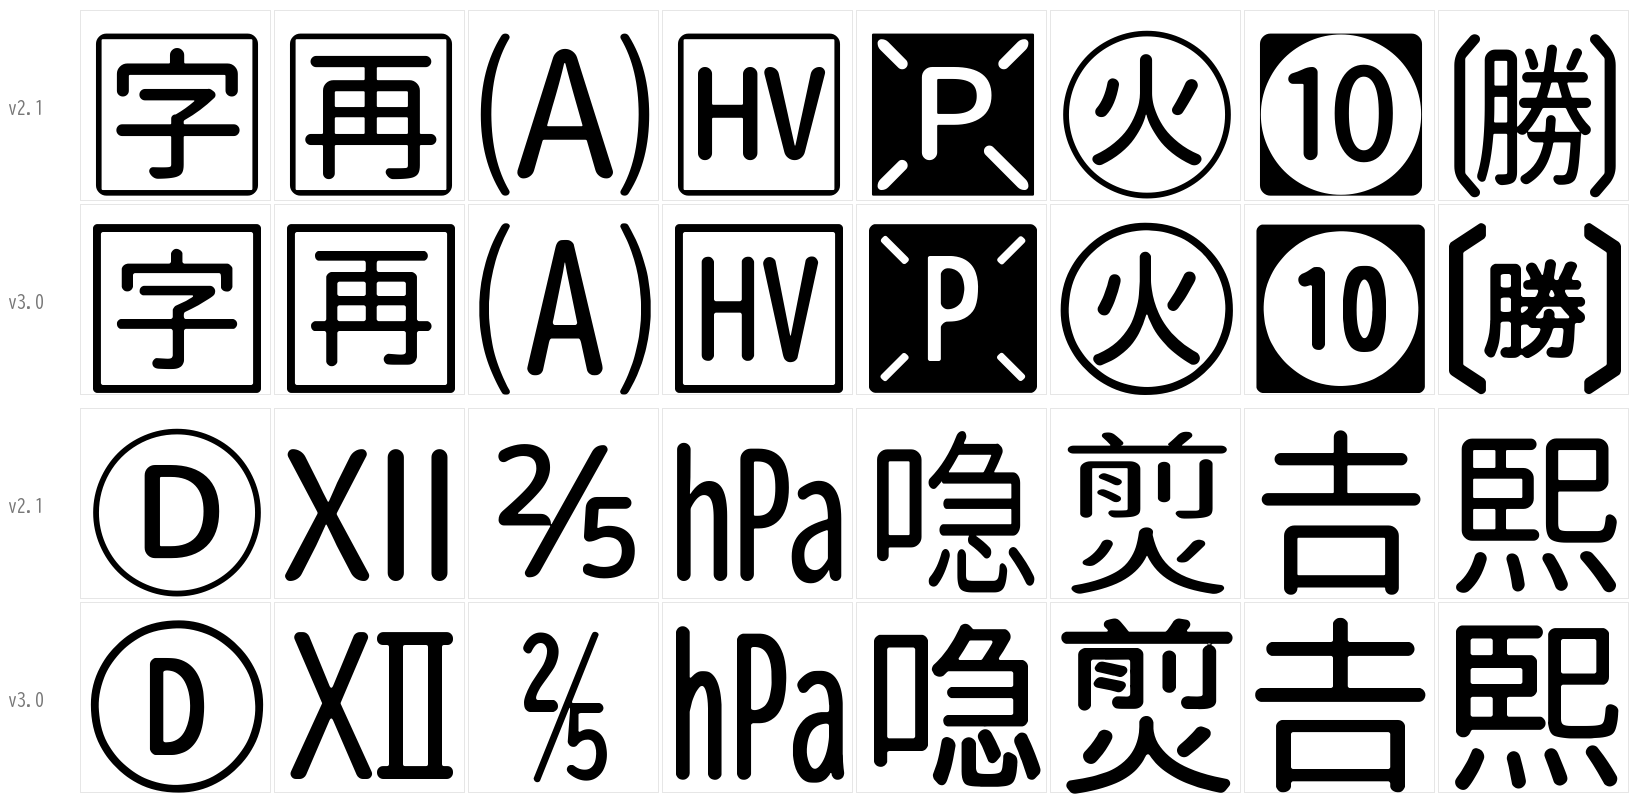
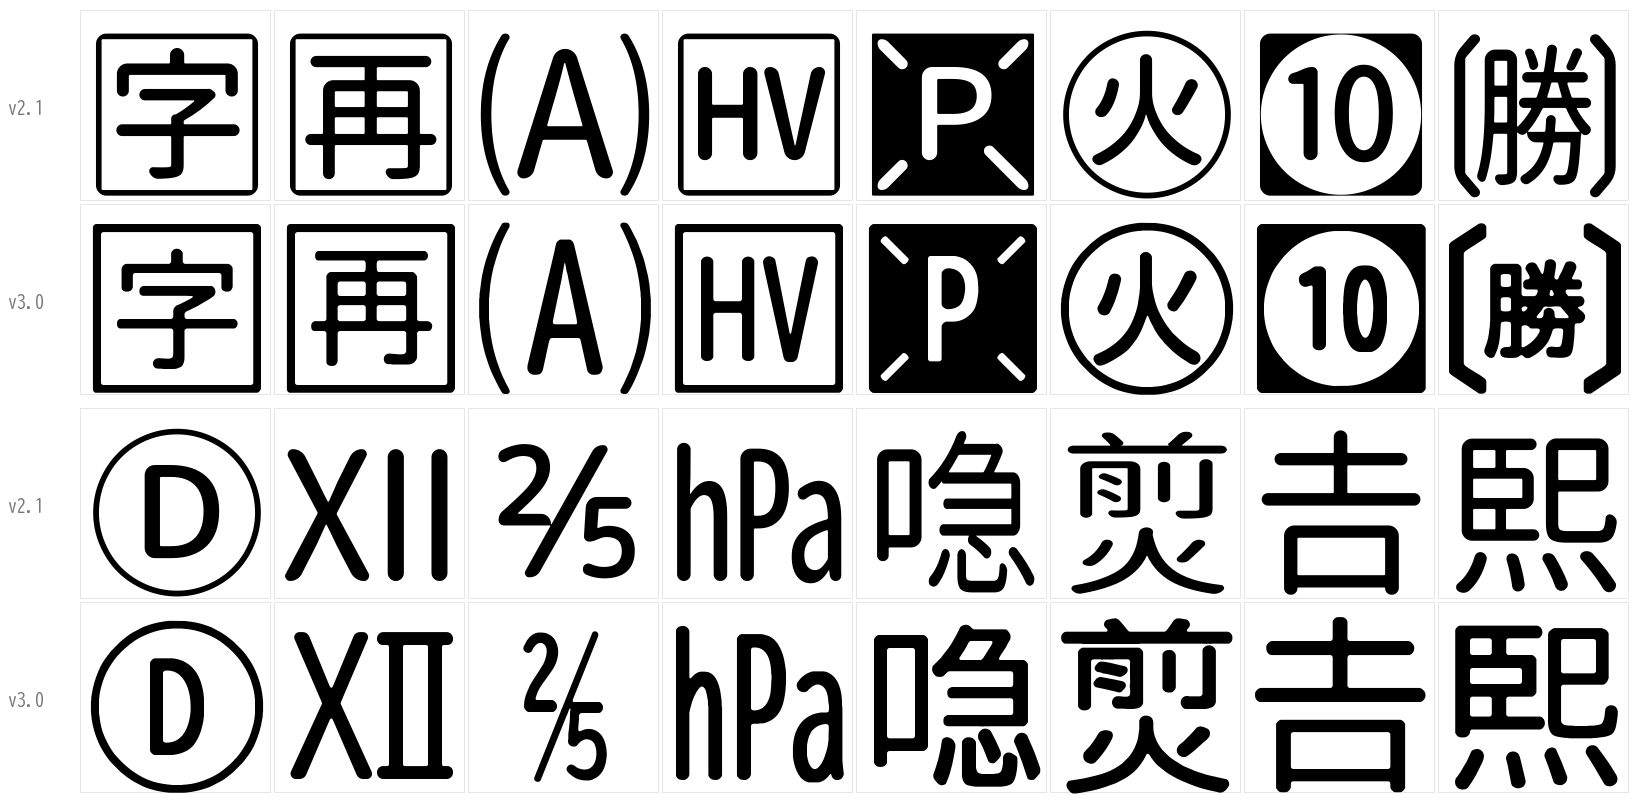
描いた字・組んだ字の格子を 1 マス 2 単位にする (見た目は同じで 4 倍速い)。見本を作り直す
Claude-Session: https://claude.ai/code/session_01TG5bWNd7UBYqDbKKDsecbS

Changed region(s): [[0.8386, 0.4032, 0.8697, 0.4342], [0.8386, 0.3412, 0.8697, 0.3722]]

diff --git a/tools/src/round.rs b/tools/src/round.rs
@@ -1,4 +1,4 @@
-//! 描いた字 (draw.rs) と部品を組む字 (parts.rs) を丸める。図形や部品が重なるので、em 1024 の格子に塗ってから角を丸め、
+//! 描いた字 (draw.rs) と部品を組む字 (parts.rs) を丸める。図形や部品が重なるので、格子 (1 マス RES 単位) に塗ってから角を丸め、
 //! 輪郭に戻す (戻すのは fit.rs)。元の字 (BIZ UDゴシック) は輪郭のまま丸める (fillet.rs)。
 //! 新しい crate は使わない (距離変換・等高線は std だけ)。
 //!
@@ -21,8 +21,8 @@ use crate::sfnt::{Contour, Pt};
 pub const R1: f64 = 41.0;
 /// へこんだ角の丸み
 pub const R2: f64 = 12.0;
-/// 格子の 1 画素の大きさ (em 1024 の単位)
-pub const RES: f64 = 1.0;
+/// 格子の 1 画素の大きさ (em 1024 の単位)。2 で em を 512 マスに (1 にしても見た目は変わらず、4 倍遅い)
+pub const RES: f64 = 2.0;
 
 const BIG: f64 = 1e20;
 
